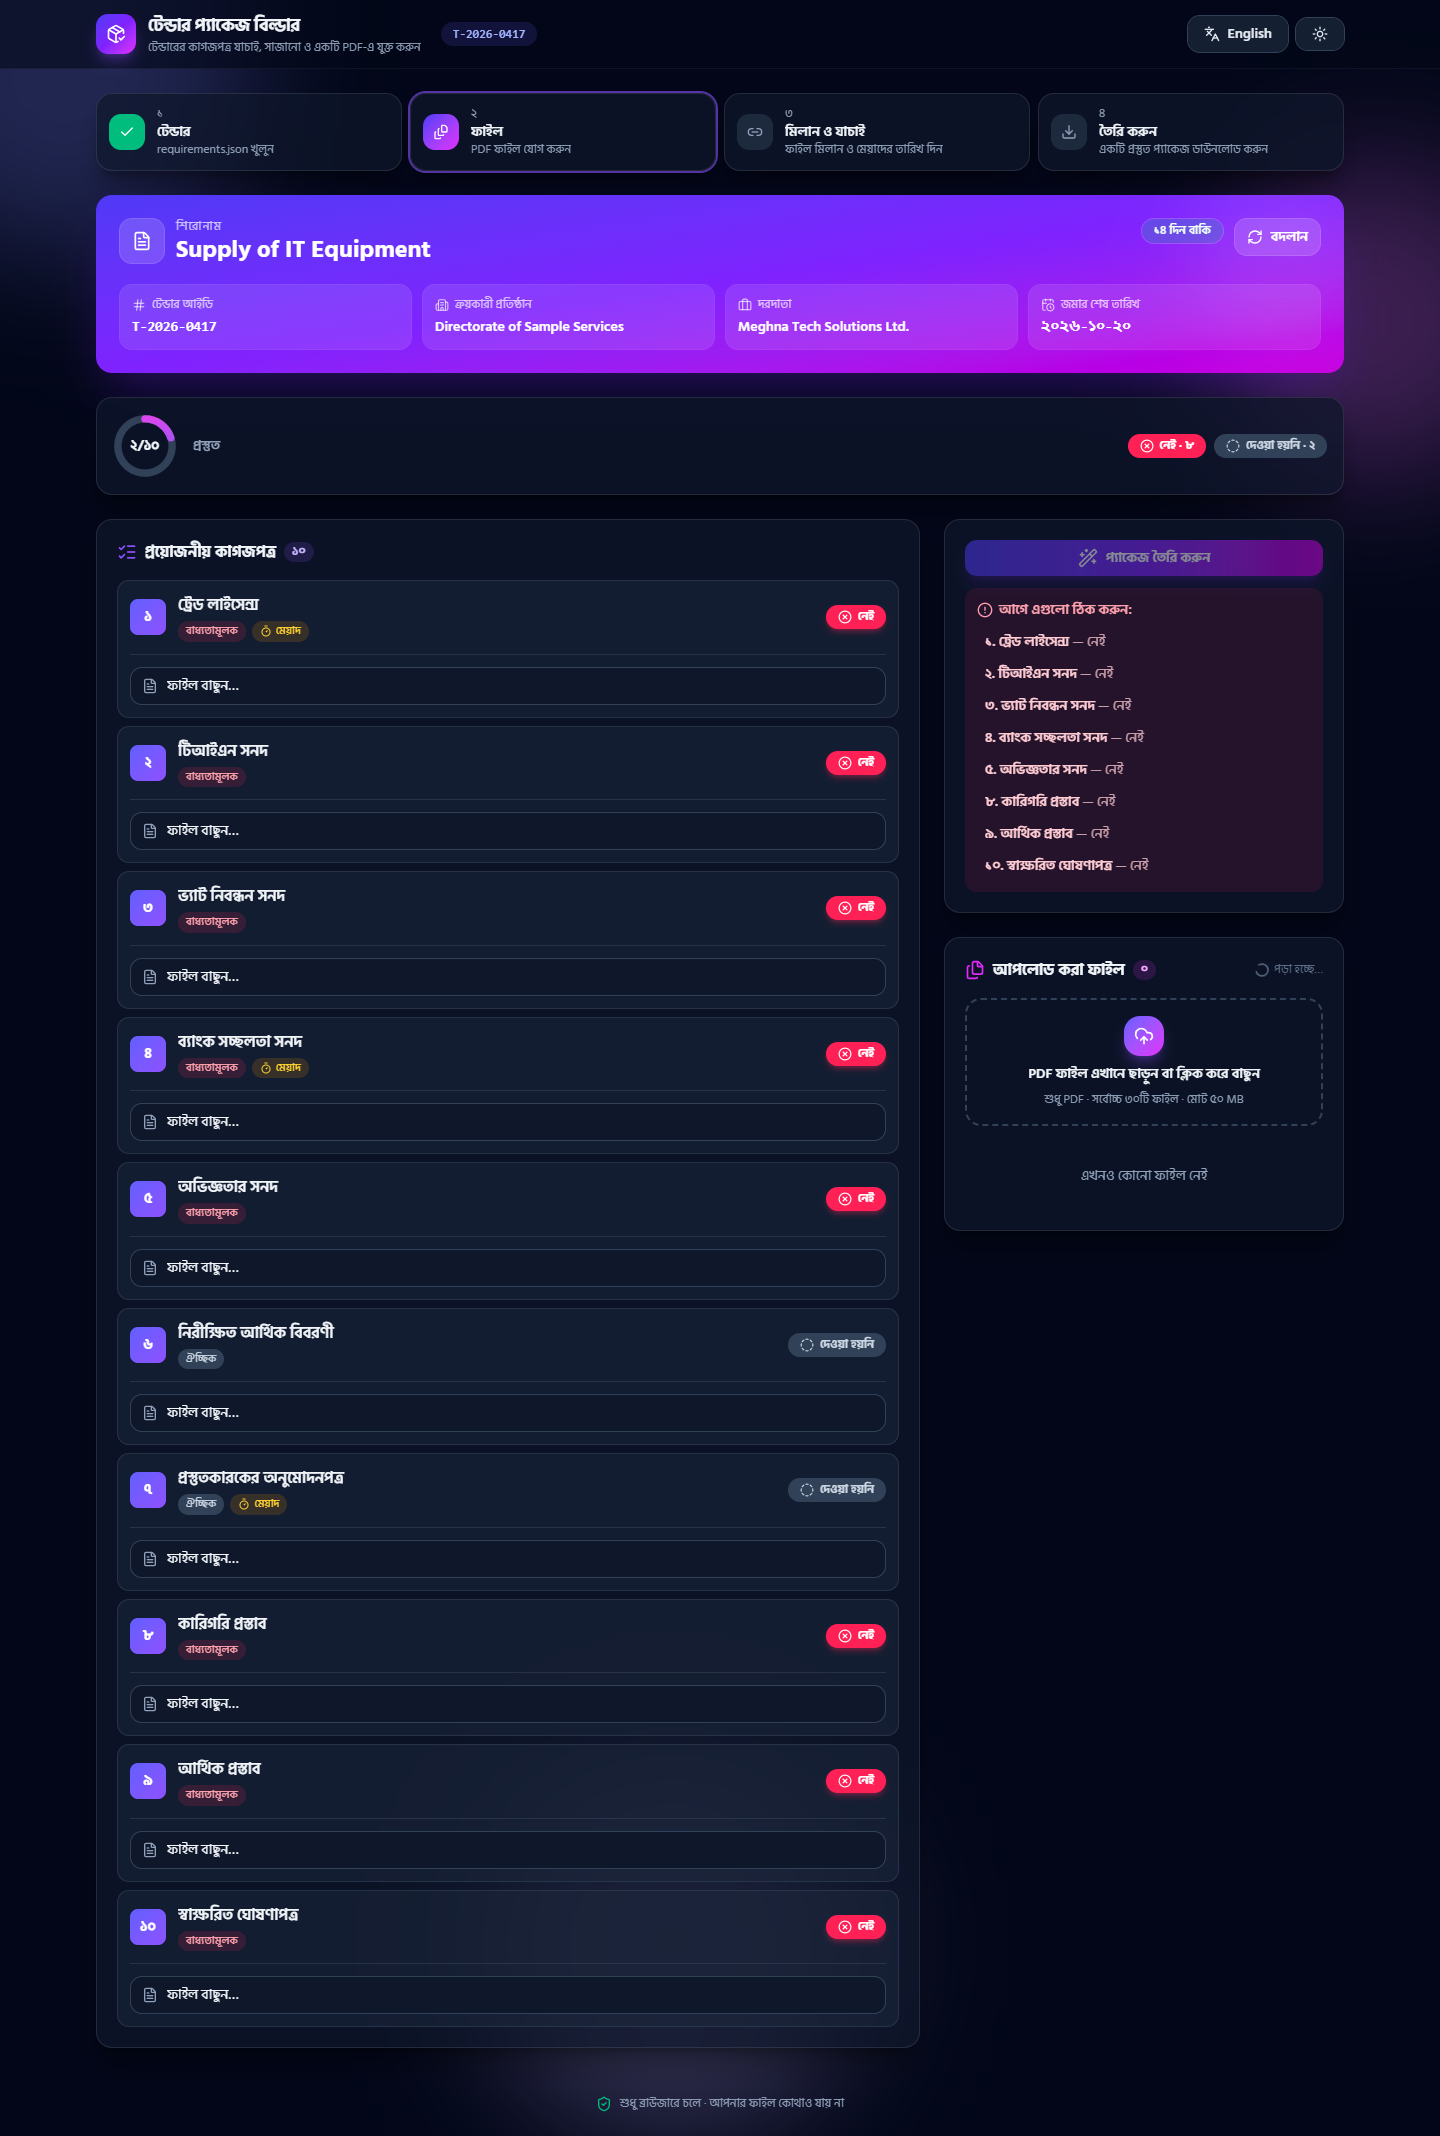
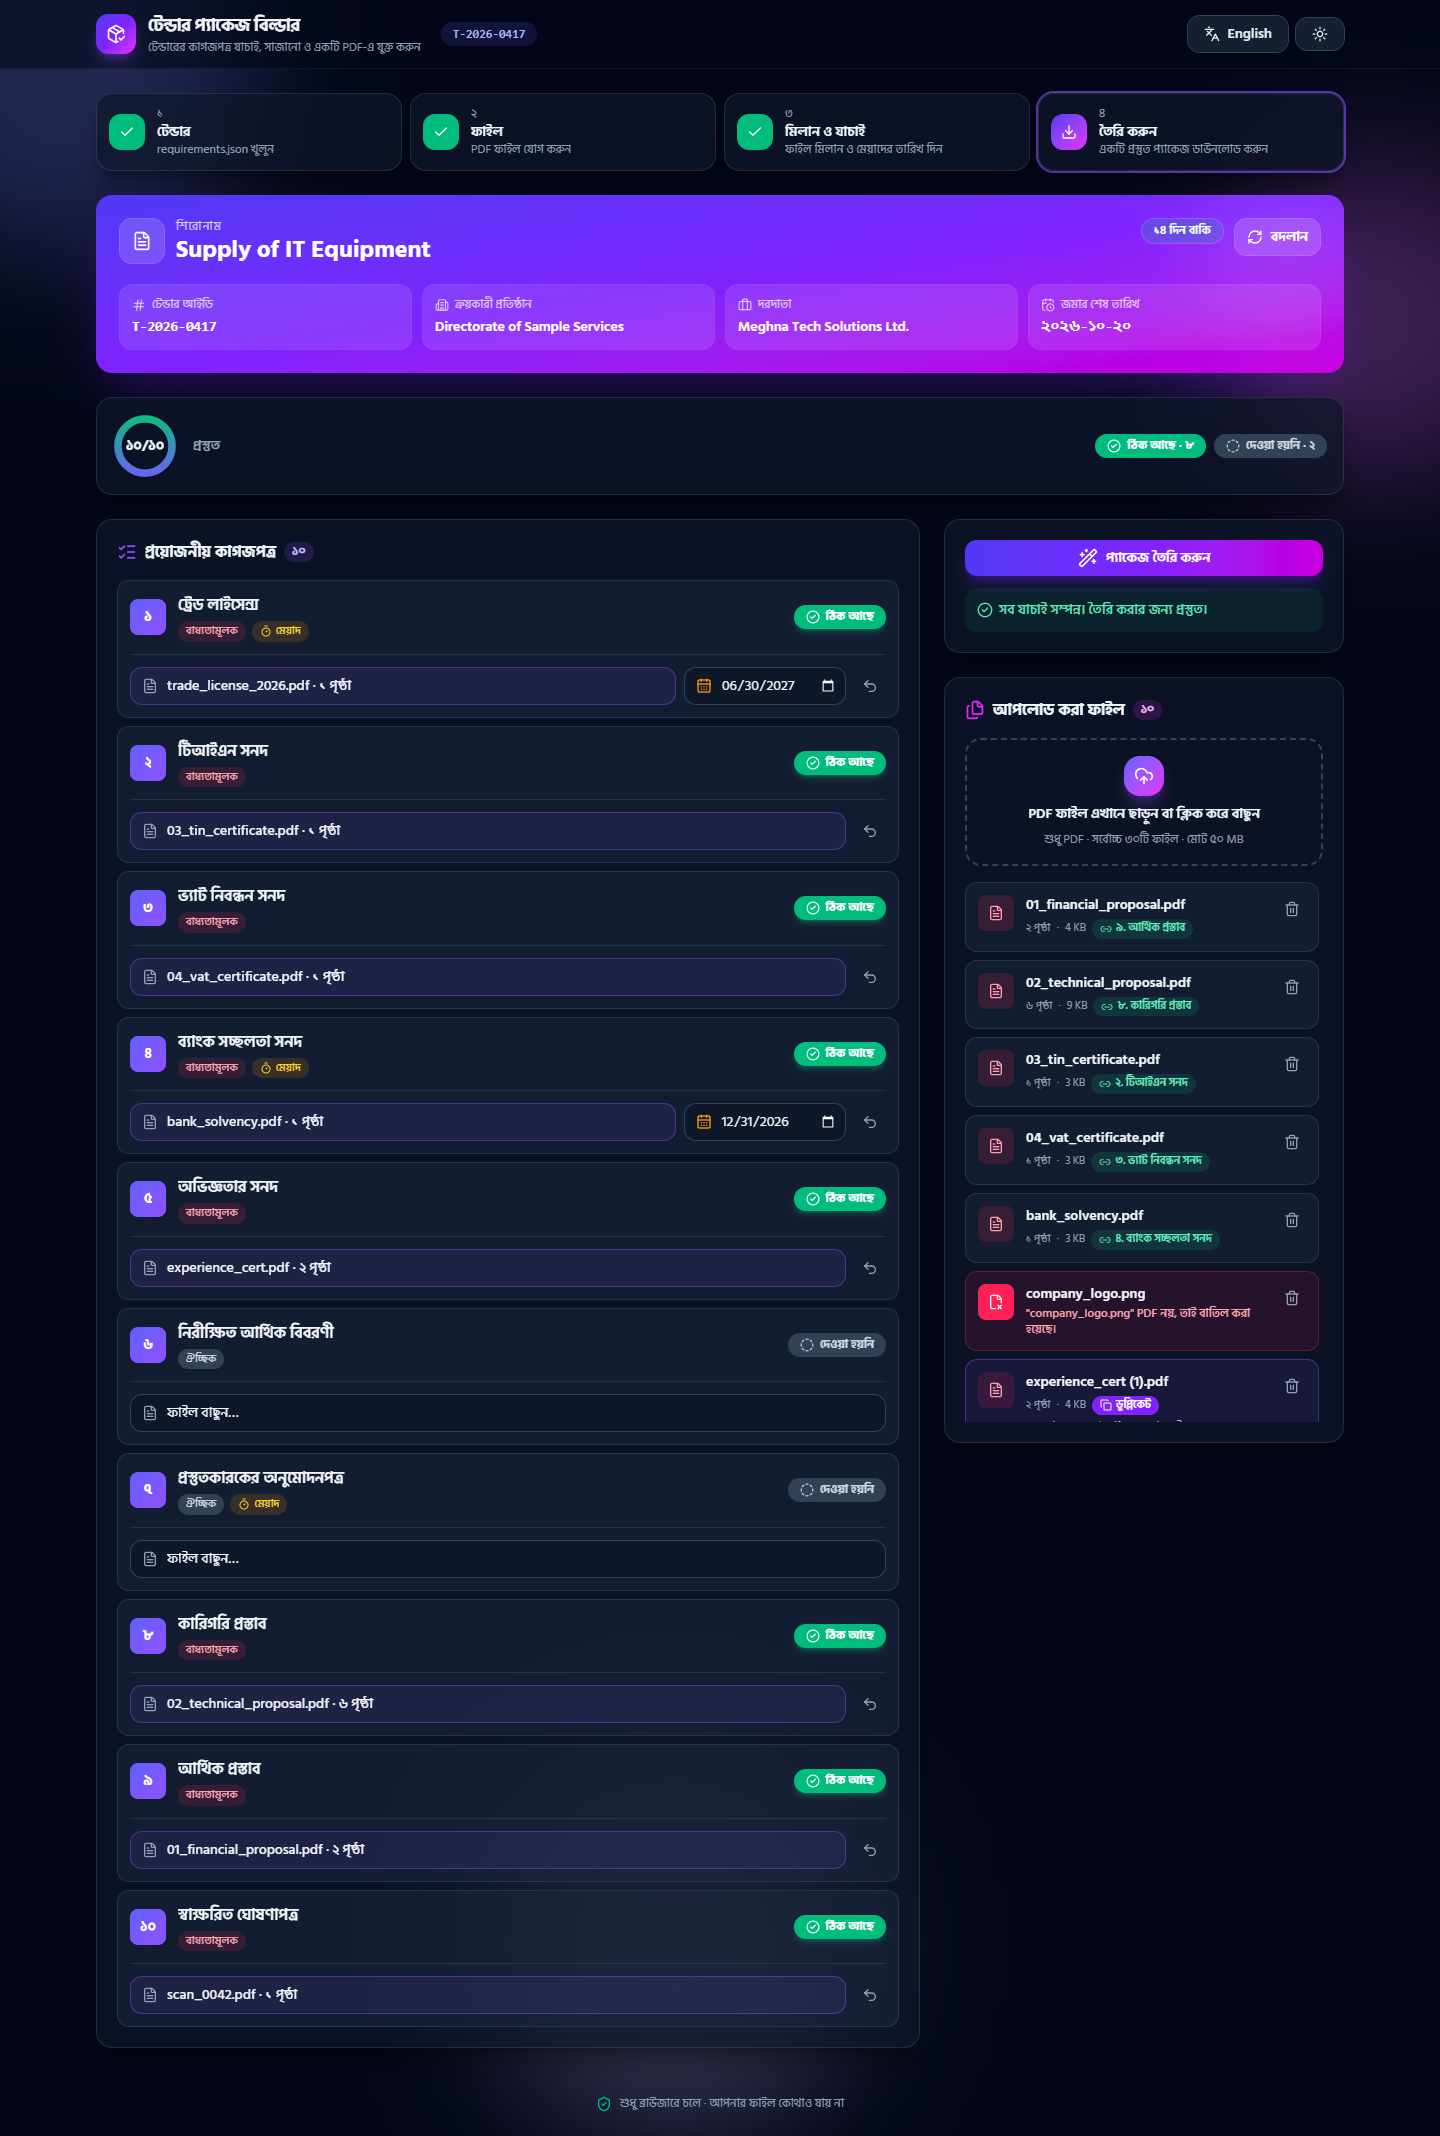
fix: screenshot script without PDF request workaround (cause was IDM extension), retake screenshots, README known issue updated
Prompt: "amr mone hoy idm diye download korte giye kono ekta jhamela hossilo, ami ekhn IDM uninstall kore diyechi, ekhn try kore dekhte paren"

diff --git a/README.md b/README.md
@@ -69,7 +69,7 @@ Handy URL parameters: `?lang=bn|en`, `?theme=dark|light`, `?sample=1` (auto-load
 - The date picker shows the browser's own date format (for example mm/dd/yyyy). It is stored as YYYY-MM-DD.
 - The PDF cover page is English only (the problem asks for English); Bangla on the cover is a bonus item.
 - Each page is scaled to about 96% to make room for the footer, so page content is slightly smaller.
-- Headless Chrome returns an empty body for `fetch()` of `application/pdf`, so the screenshot script serves the sample PDFs itself. Normal Chrome is not affected.
+- Download-manager browser extensions (for example IDM) can intercept PDF requests and break **Try sample**. Uploading files by hand still works.
 
 ## AI tools used
 
